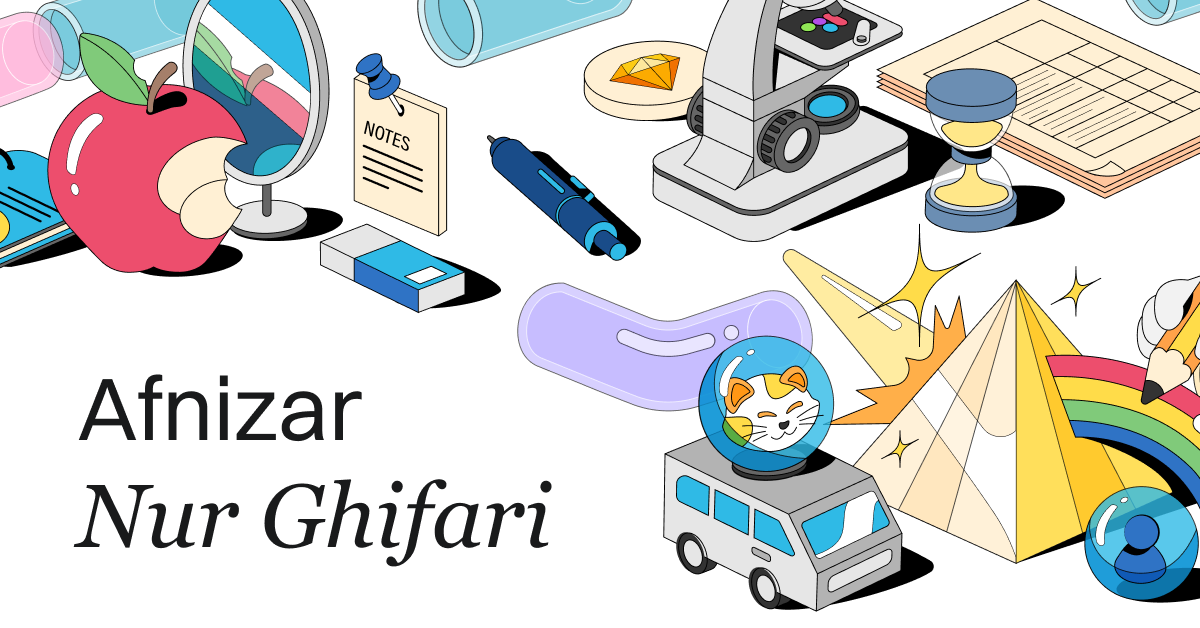
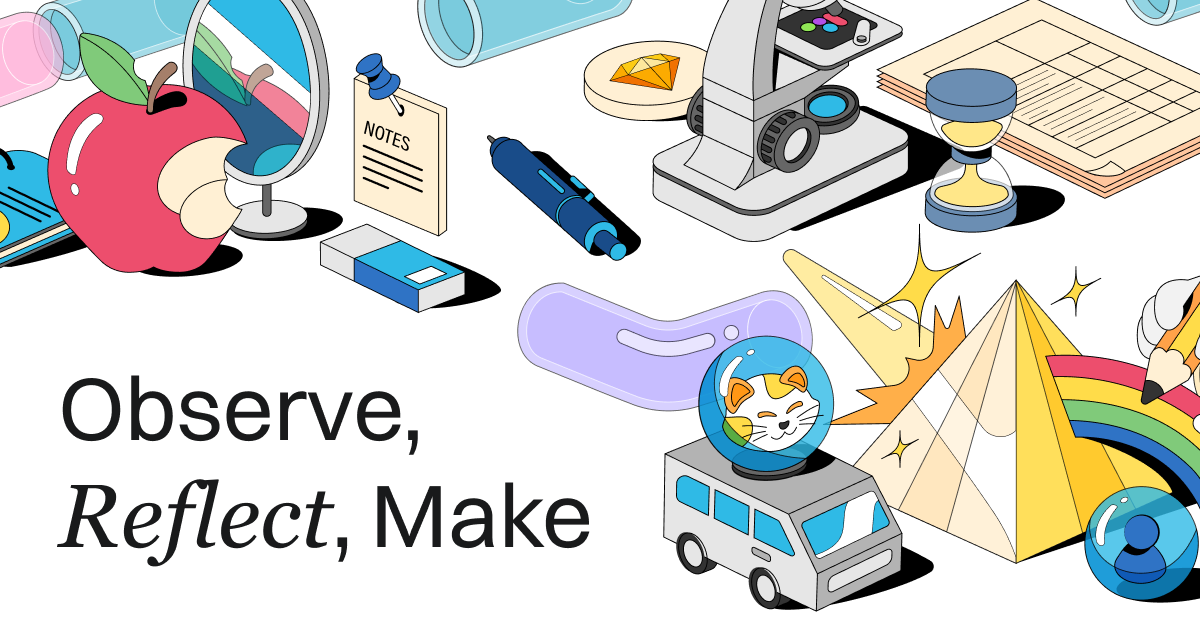
update design and copy again

Changed region(s): [[0.0308, 0.7564, 0.4933, 0.9076], [0.0308, 0.5748, 0.37, 0.7261]]

diff --git a/src/assets/styles/components/_intro.scss b/src/assets/styles/components/_intro.scss
@@ -15,15 +15,6 @@
 
         .intro__heading {
             overflow: hidden;
-
-            [data-word="GovTech"],
-            [data-word="Edu"],
-            [data-word="@"],
-            [data-word="Telkom"],
-            [data-word="Indonesia"] {
-                font-family: $font-family-serif;
-                font-style: italic;
-            }
         }
 
         p.subtitle {

diff --git a/src/assets/styles/components/home/_selected-works.scss b/src/assets/styles/components/home/_selected-works.scss
@@ -92,6 +92,7 @@
                 width: 100%;
                 will-change: transform;
                 transition: transform 1.5s cubic-bezier(0.215, 0.61, 0.355, 1);
+                border-radius: 24px;
 
                 @include mq-down(sm) {
                     height: 100%;
